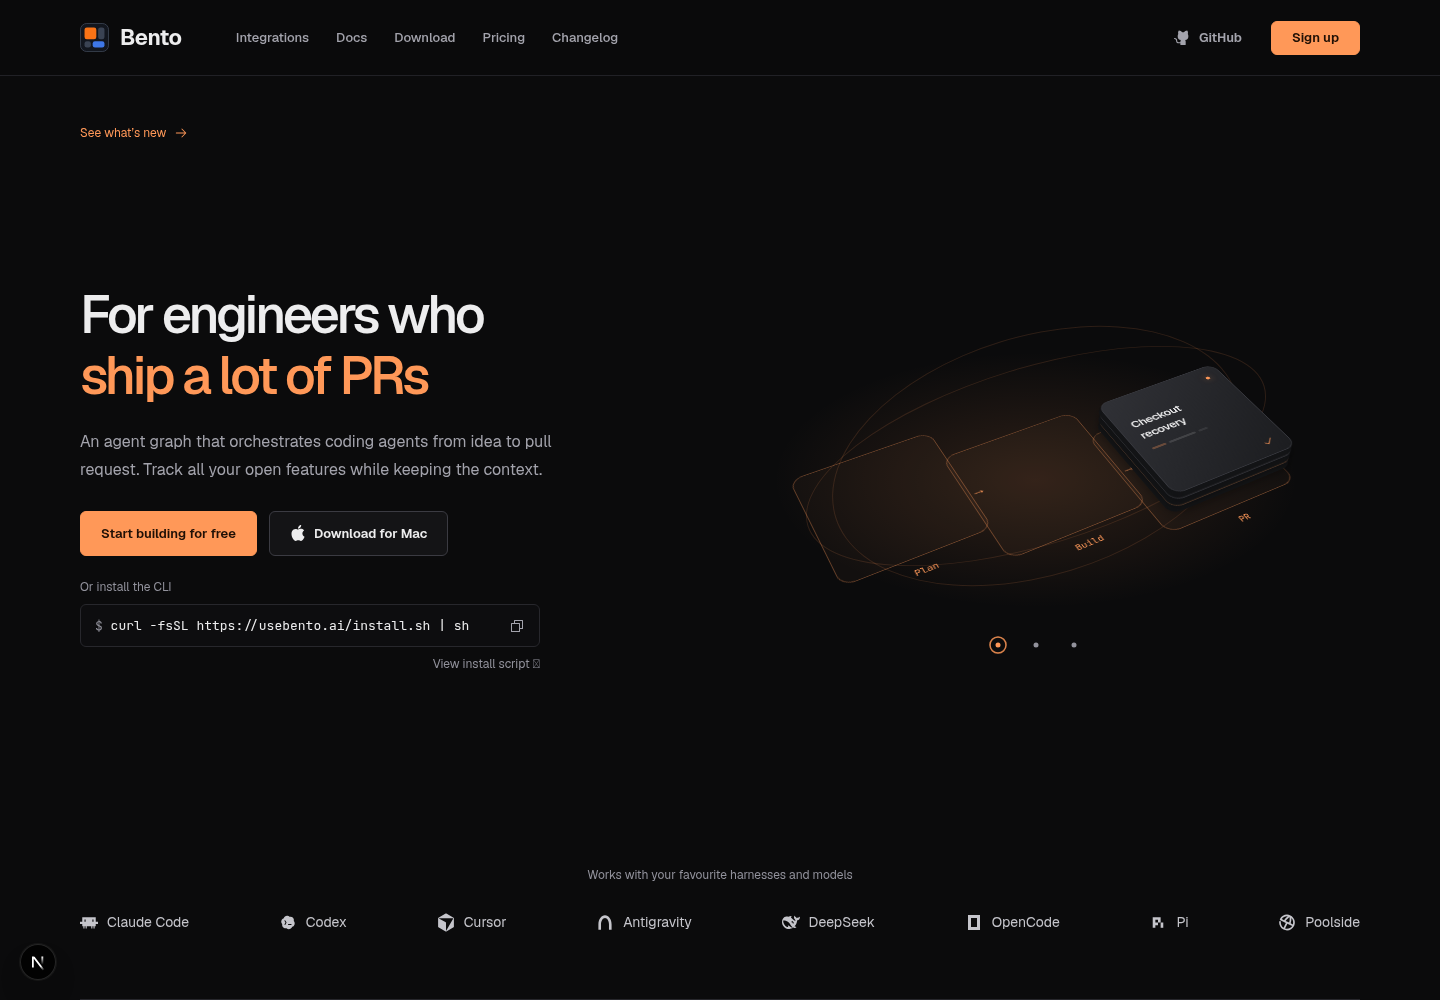
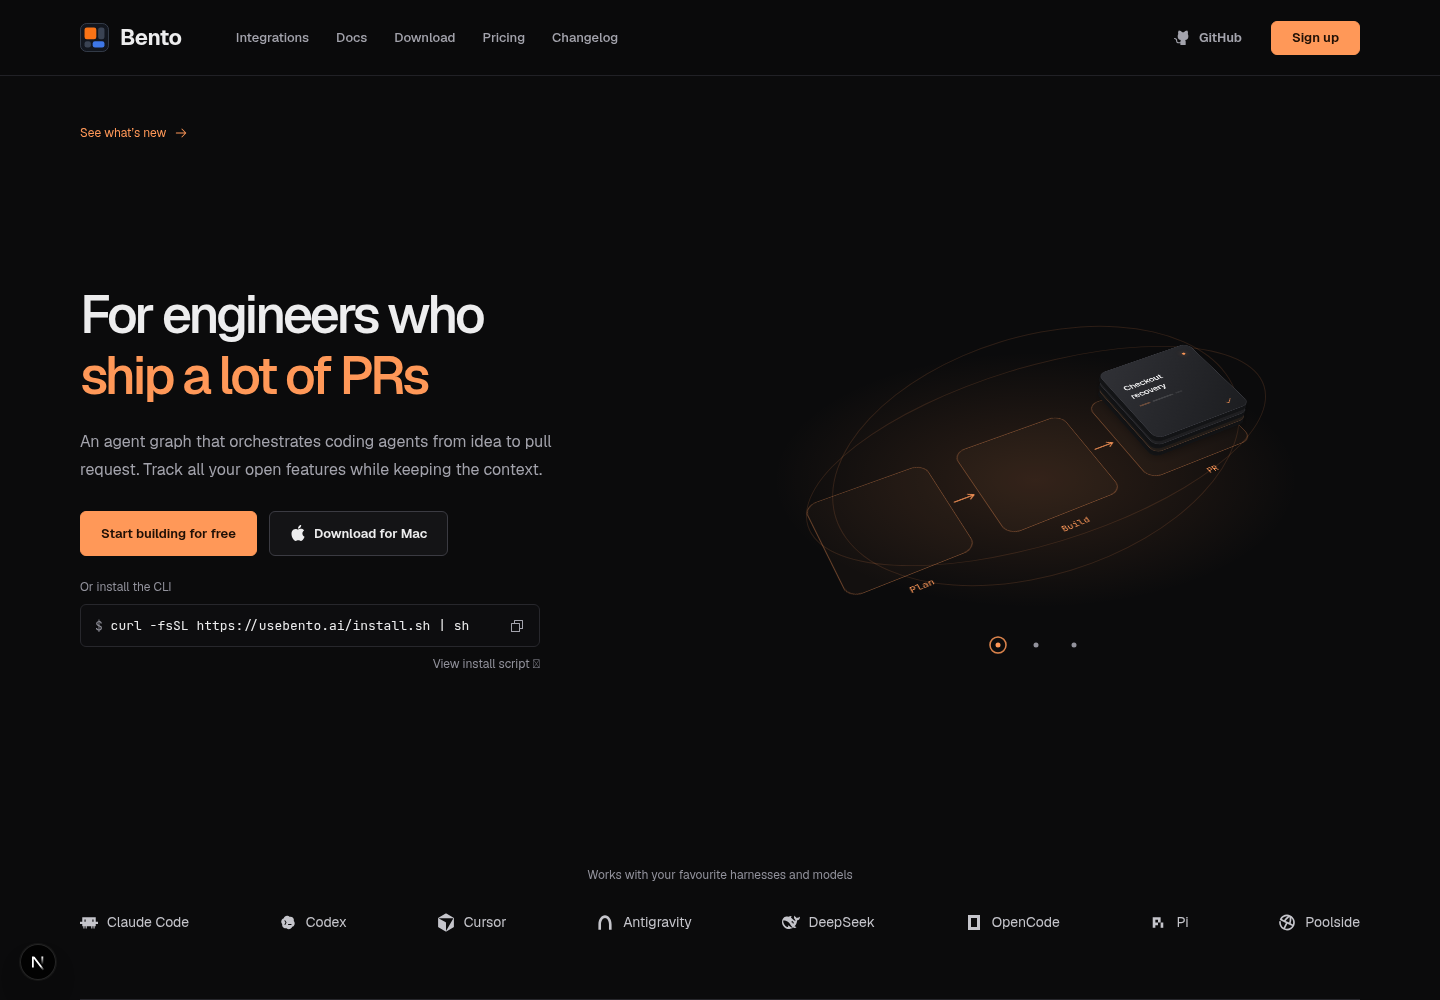
Separate pipeline stops and connect context artifacts with arrows

Changed region(s): [[0.75, 0.341, 0.875, 0.496], [0.6562, 0.465, 0.6875, 0.527], [0.625, 0.558, 0.6562, 0.589]]

diff --git a/app/marketing.css b/app/marketing.css
@@ -811,13 +811,12 @@ body:has(.marketing-page) {
 /* Ship: one feature travels through three physical pipeline stops. */
 .feature-pipeline { opacity: 0; transition: opacity 500ms; transform-style: preserve-3d; }
 .feature-scene[data-chapter="0"] .feature-pipeline { opacity: 1; }
-.pipeline-stop { position: absolute; width: 172px; height: 172px; left: -86px; top: -86px; border: 1px solid color-mix(in srgb, var(--brand) 35%, transparent); border-radius: 16px; background: color-mix(in srgb, var(--brand) 3%, transparent); }
-.pipeline-stop-0 { transform: translate3d(-167px, -32px, -40px); }
-.pipeline-stop-1 { transform: translate3d(0, 16px, -40px); }
-.pipeline-stop-2 { transform: translate3d(167px, 64px, -40px); }
+.pipeline-stop { position: absolute; width: 144px; height: 144px; left: -72px; top: -72px; border: 1px solid color-mix(in srgb, var(--brand) 35%, transparent); border-radius: 16px; background: color-mix(in srgb, var(--brand) 3%, transparent); }
+.pipeline-stop-0 { transform: translate3d(-180px, 0, -40px); }
+.pipeline-stop-1 { transform: translate3d(0, 0, -40px); }
+.pipeline-stop-2 { transform: translate3d(180px, 0, -40px); }
 .pipeline-stop span { position: absolute; bottom: -27px; left: 0; width: 100%; text-align: center; font: 11px var(--font-jetbrains-mono), monospace; color: var(--brand); }
-.pipeline-stop:not(:last-child)::after { content: "→"; position: absolute; left: calc(100% + 1px); top: 58%; color: var(--brand); font-size: 18px; }
-.feature-scene[data-chapter="0"] .feature-cluster-1 { transform: translate3d(167px, 64px, 12px); }
+.feature-scene[data-chapter="0"] .feature-cluster-1 { transform: translate3d(180px, 0, 12px) scale(.8); }
 /* Context: artifacts originate from a single card and fan out beside it. */
 .feature-scene[data-chapter="1"] .feature-cluster-1 { transform: translate3d(-115px, 0, 25px); transition: none; }
 .feature-artifacts { transform-style: preserve-3d; opacity: 0; transition: opacity 500ms; }
@@ -826,7 +825,6 @@ body:has(.marketing-page) {
 .feature-artifact svg { color: #ff9858; float: right; }
 .feature-artifact strong { display: block; font: 10px var(--font-jetbrains-mono), monospace; margin-top: 23px; }
 .feature-artifact .feature-card-lines { margin-top: 9px; }
-.feature-artifact::before { content: ""; position: absolute; right: 100%; width: 65px; top: 50%; border-top: 1px dashed #ff98585c; }
 .feature-artifact-0 { transform: translate3d(108px, -105px, 40px); }
 .feature-artifact-1 { transform: translate3d(125px, 0, 40px); }
 .feature-artifact-2 { transform: translate3d(142px, 105px, 40px); }
@@ -849,10 +847,10 @@ body:has(.marketing-page) {
   .feature-scene[data-chapter="2"] .feature-cluster-1 .feature-scan, .feature-scene[data-chapter="2"] .feature-cluster-1 .feature-lock { animation-delay: .5s; }
   .feature-scene[data-chapter="2"] .feature-cluster-2 .feature-scan, .feature-scene[data-chapter="2"] .feature-cluster-2 .feature-lock { animation-delay: 1s; }
   @keyframes feature-ship {
-    0%, 15% { transform: translate3d(-167px, -32px, 12px); }
-    38%, 53% { transform: translate3d(0, 16px, 28px); }
-    78%, 94% { transform: translate3d(167px, 64px, 12px); opacity: 1; }
-    100% { transform: translate3d(190px, 70px, 36px); opacity: 0; }
+    0%, 15% { transform: translate3d(-180px, 0, 12px) scale(.8); }
+    38%, 53% { transform: translate3d(0, 0, 28px) scale(.8); }
+    78%, 94% { transform: translate3d(180px, 0, 12px) scale(.8); opacity: 1; }
+    100% { transform: translate3d(200px, 0, 36px) scale(.8); opacity: 0; }
   }
   @keyframes artifact-spawn {
     0%, 8% { transform: translate3d(-115px, 0, 30px) scale(.5); opacity: 0; }
@@ -884,5 +882,16 @@ body:has(.marketing-page) {
 .hero-story-demo button:focus-visible { outline: 2px solid var(--brand); outline-offset: 3px; }
 @media (max-width: 1100px) and (min-width: 801px), (max-width: 520px) {
   .feature-world { transform: scale(.73) rotateX(46deg) rotateZ(-28deg); }
+  .feature-scene[data-chapter="0"] .feature-world { transform: scale(.6) rotateX(46deg) rotateZ(-28deg); }
   .feature-stage { height: 320px; }
+}
+
+.pipeline-connectors, .artifact-connectors { position: absolute; pointer-events: none; overflow: visible; stroke: var(--brand); stroke-width: 1.5; stroke-linecap: round; stroke-linejoin: round; }
+.pipeline-connectors { left: -260px; top: -100px; width: 520px; height: 200px; transform: translateZ(-40px); }
+.artifact-connectors { left: -250px; top: -200px; width: 500px; height: 400px; transform: translateZ(40px); opacity: .75; }
+@media (prefers-reduced-motion: no-preference) {
+  .artifact-connectors path { stroke-dasharray: 180; animation: artifact-connect 1.4s ease both; }
+  .artifact-connectors path:nth-child(2) { animation-delay: .35s; }
+  .artifact-connectors path:nth-child(3) { animation-delay: .7s; }
+  @keyframes artifact-connect { from { stroke-dashoffset: 180; opacity: 0; } to { stroke-dashoffset: 0; opacity: 1; } }
 }

diff --git a/components/marketing/hero-story-demo.tsx b/components/marketing/hero-story-demo.tsx
@@ -27,6 +27,9 @@ export function HeroStoryDemo() {
       >
       <div className="feature-world">
         {active === 0 && <div className="feature-pipeline">
+          <svg className="pipeline-connectors" viewBox="-260 -100 520 200" fill="none" aria-hidden="true">
+            <path d="M-102 0 H-78 M-84 -4 L-78 0 L-84 4 M78 0 H102 M96 -4 L102 0 L96 4" />
+          </svg>
           {["Plan", "Build", "PR"].map((stage, index) => <div className={`pipeline-stop pipeline-stop-${index}`} key={stage}><span>{stage}</span></div>)}
         </div>}
         {features.map((feature, index) => (active === 2 || index === 1) && <div className={`feature-cluster feature-cluster-${index}`} key={feature}>
@@ -36,6 +39,11 @@ export function HeroStoryDemo() {
           {active === 2 && <div className="feature-scan"><ShieldCheck size={26} /></div>}
         </div>)}
         {active === 1 && <div className="feature-artifacts">
+          <svg className="artifact-connectors" viewBox="-250 -200 500 400" fill="none" aria-hidden="true">
+            <path d="M-24 -38 C5 -38 0 -105 36 -105 M30 -109 L36 -105 L30 -101" />
+            <path d="M-24 0 H53 M47 -4 L53 0 L47 4" />
+            <path d="M-24 38 C15 38 20 105 70 105 M64 101 L70 105 L64 109" />
+          </svg>
           {["plan.md", "decisions.md", "review.md"].map((file, index) => <div className={`feature-artifact feature-artifact-${index}`} key={file}><FileText size={22} /><strong>{file}</strong><div className="feature-card-lines"><i /><i /></div></div>)}
         </div>}
       </div>
